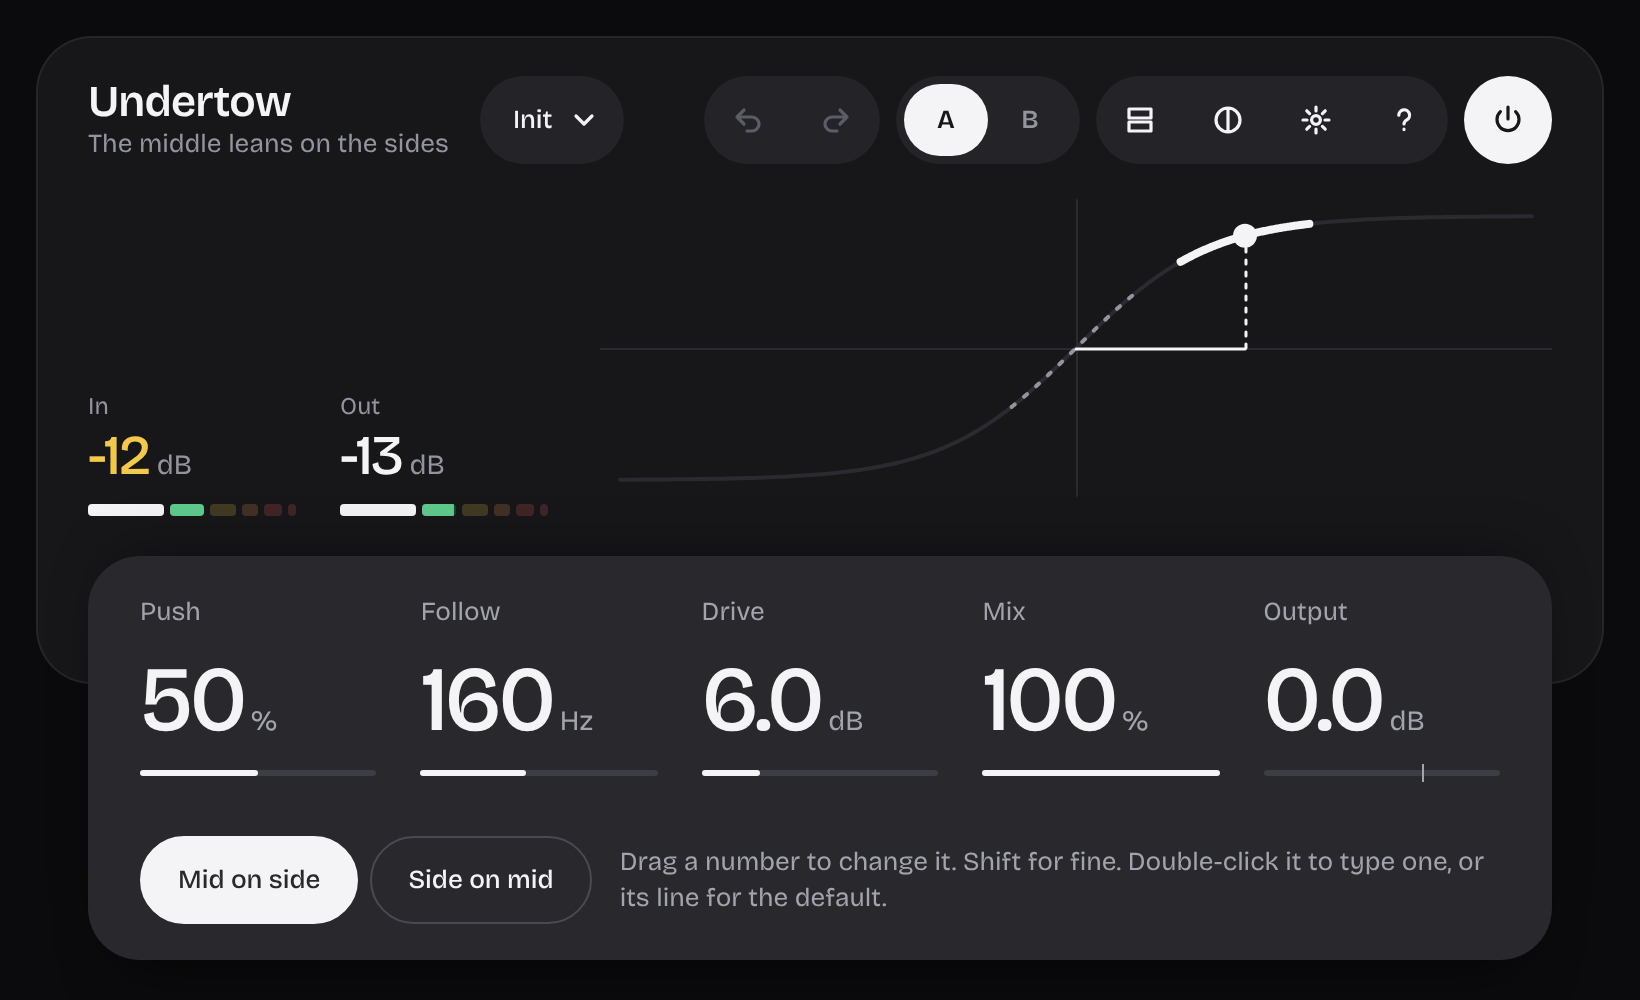
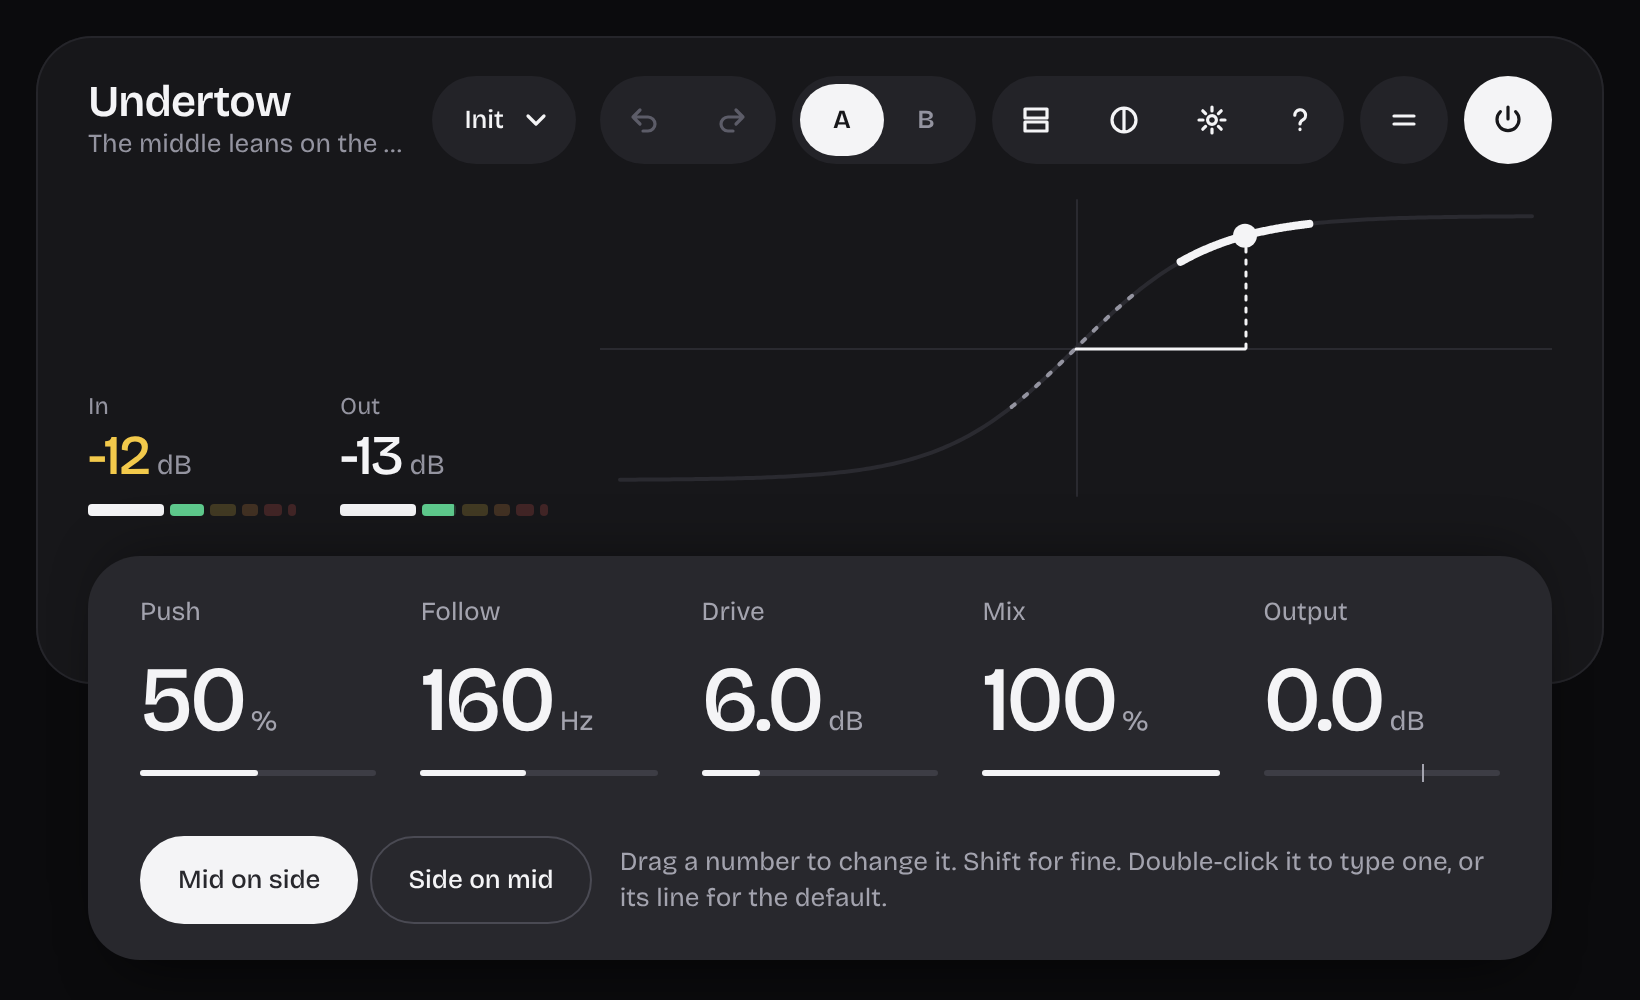
Undertow: level matching
A new setting, id 11; nothing that shipped has changed its id.

Claude-Session: https://claude.ai/code/session_01LsEv5JJ6sX3X7Qe9Tsco2Y

diff --git a/plugins/undertow/src/lib.rs b/plugins/undertow/src/lib.rs
@@ -5,7 +5,7 @@
 
 use kit::level::{db_to_gain, peak, to_fraction};
 use kit::{Asset, Block, Info, Param, Plugin, Role, list, meter, range};
-use kit_dsp::{Smooth, Svf};
+use kit_dsp::{Match, Smooth, Svf};
 
 // Indexes into PARAMS, for `Block`.
 pub const PUSH: usize = 0;
@@ -15,6 +15,7 @@ pub const STEER: usize = 3;
 pub const MIX: usize = 4;
 pub const OUTPUT: usize = 5;
 pub const BYPASS: usize = 6;
+pub const MATCH: usize = 7;
 // Indexes into METERS.
 pub const INPUT: usize = 0;
 pub const LEVEL: usize = 1;
@@ -58,6 +59,7 @@ pub struct Undertow {
     push: Smooth,
     drive: Smooth,
     mix: Smooth,
+    matcher: Match,
     output: Smooth,
     lean: f32,
     lean_fall: f32,
@@ -114,6 +116,7 @@ impl Plugin for Undertow {
             .about("Level after everything else"),
         // Ids 6 to 9 are the meters'.
         kit::bypass(10),
+        kit::level_match(11),
     ];
 
     const METERS: &'static [Param] = &[
@@ -136,6 +139,7 @@ impl Plugin for Undertow {
             push: Smooth::new(0.0, EASE_MS, rate),
             drive: Smooth::new(1.0, EASE_MS, rate),
             mix: Smooth::new(0.0, EASE_MS, rate),
+            matcher: Match::new(rate),
             output: Smooth::new(1.0, EASE_MS, rate),
             lean: 0.0,
             lean_fall: 0.0,
@@ -149,6 +153,7 @@ impl Plugin for Undertow {
         self.push = Smooth::new(at(PUSH) / 100.0, EASE_MS, rate);
         self.drive = Smooth::new(db_to_gain(at(DRIVE)), EASE_MS, rate);
         self.mix = Smooth::new(at(MIX) / 100.0, EASE_MS, rate);
+        self.matcher = Match::new(rate);
         self.output = Smooth::new(db_to_gain(at(OUTPUT)), EASE_MS, rate);
         self.lean = 0.0;
         self.lean_fall = 1.0 / (LEAN_HOLD_MS * 0.001 * rate);
@@ -166,6 +171,7 @@ impl Plugin for Undertow {
         let mix = block.value(MIX) / 100.0;
         let output = db_to_gain(block.value(OUTPUT));
         let mid_leans = block.choice(STEER) == MID_ON_SIDE;
+        let matching = block.choice(MATCH) == 1;
         // The filter's corner moves once a block: it shapes the bias,
         // never the sound directly, so a step in it is not heard.
         self.low.set(follow, 0.707);
@@ -195,7 +201,13 @@ impl Plugin for Undertow {
             } else {
                 (carried, key)
             };
-            let outs = [(mid + side) * output, (mid - side) * output];
+            // Matched to what came in before the output trim, which is
+            // then the person's own to set on top.
+            let (out_l, out_r) = (mid + side, mid - side);
+            let heard_now = left * left + right * right;
+            let made = out_l * out_l + out_r * out_r;
+            let output = output * self.matcher.next(heard_now, made, matching);
+            let outs = [out_l * output, out_r * output];
             for (ch, value) in outs.iter().enumerate().take(block.outputs()) {
                 block.output(ch)[i] = *value;
             }

diff --git a/plugins/undertow/tests/sound.rs b/plugins/undertow/tests/sound.rs
@@ -273,3 +273,26 @@ fn a_moved_setting_is_eased_not_jumped() {
     // A 500 Hz sine of 0.5 at most moves about 0.033 a sample.
     assert!(step < 0.05, "the biggest step between samples was {step}");
 }
+
+#[test]
+fn matched_it_goes_out_as_loud_as_it_came_in_however_hard_it_leans() {
+    let n = SECOND * 3;
+    let bass: Vec<f32> = (0..n).map(|i| 0.3 * (i as f32 * 0.008).sin()).collect();
+    let air: Vec<f32> = (0..n).map(|i| 0.15 * (i as f32 * 0.21).sin()).collect();
+    let input = stereo(&bass, &air);
+    // The power of the last second, middle and side together.
+    let power = |(mid, side): &(Vec<f32>, Vec<f32>)| {
+        let last = |x: &[f32]| x[x.len() - SECOND..].iter().map(|s| s * s).sum::<f32>();
+        last(mid) + last(side)
+    };
+    let came = power(&(bass.clone(), air.clone()));
+
+    let settings = [(PUSH, 100.0), (DRIVE, 24.0), (OUTPUT, 0.0)];
+    let loose = power(&settled(&mut with(&settings), &input));
+    let matched = [settings.as_slice(), &[(undertow::MATCH, 1.0)]].concat();
+    let held = power(&settled(&mut with(&matched), &input));
+
+    assert!((held / came - 1.0).abs() < 0.05, "{held} for {came}");
+    // Left alone the level moves, which is what matching is for.
+    assert!((loose / came - 1.0).abs() > 0.05, "{loose} for {came}");
+}

diff --git a/plugins/undertow/docs/manual.md b/plugins/undertow/docs/manual.md
@@ -156,6 +156,13 @@ the top right, and your host's own bypass for the plugin: the two are
 the same setting. Going in and out takes a hundredth of a second, so
 it can be automated without a click.
 
+**Match** holds the level going out to the level coming in, so that
+when you change a setting you hear what it does to the tone and are
+not fooled by it simply being louder. It is the button with two bars
+beside On. It works on the level before Output, so Output is still
+yours to set on top, and it moves slowly, over a few tenths of a
+second, so it never pumps. It reaches at most 24 dB either way.
+
 ## Troubleshooting
 
 **Nothing changes.** Undertow only works on a stereo sound: a mono
